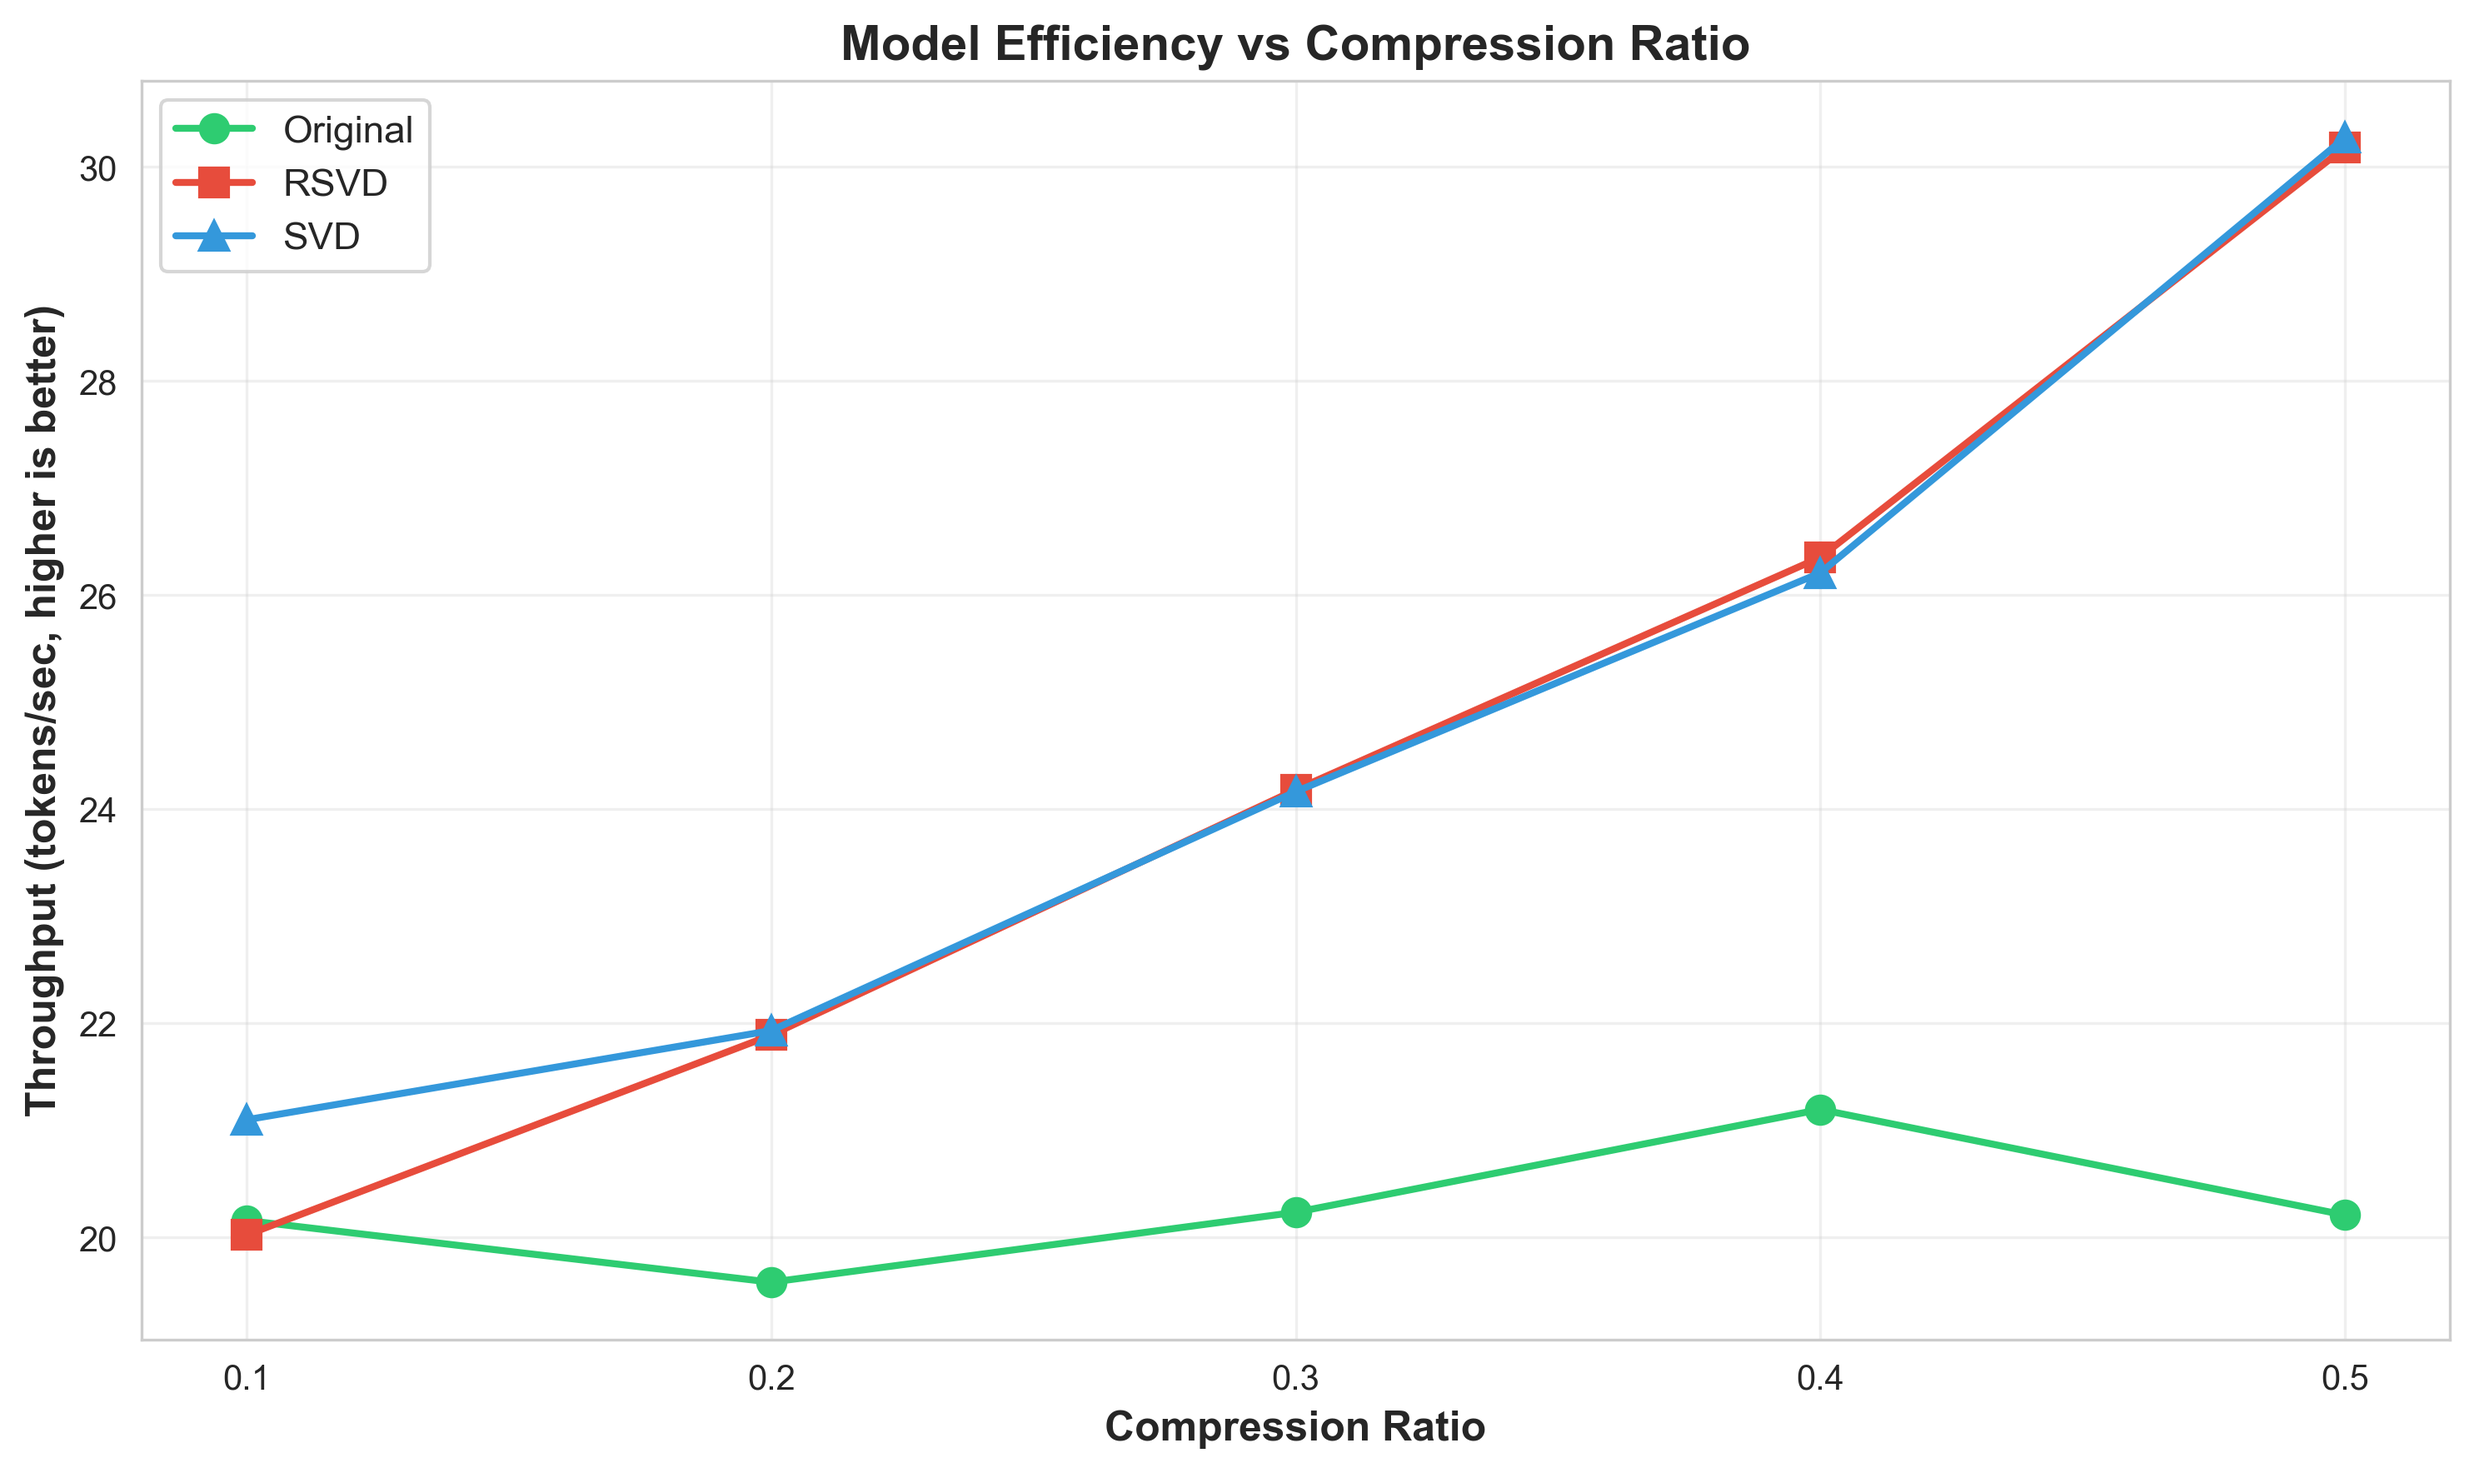
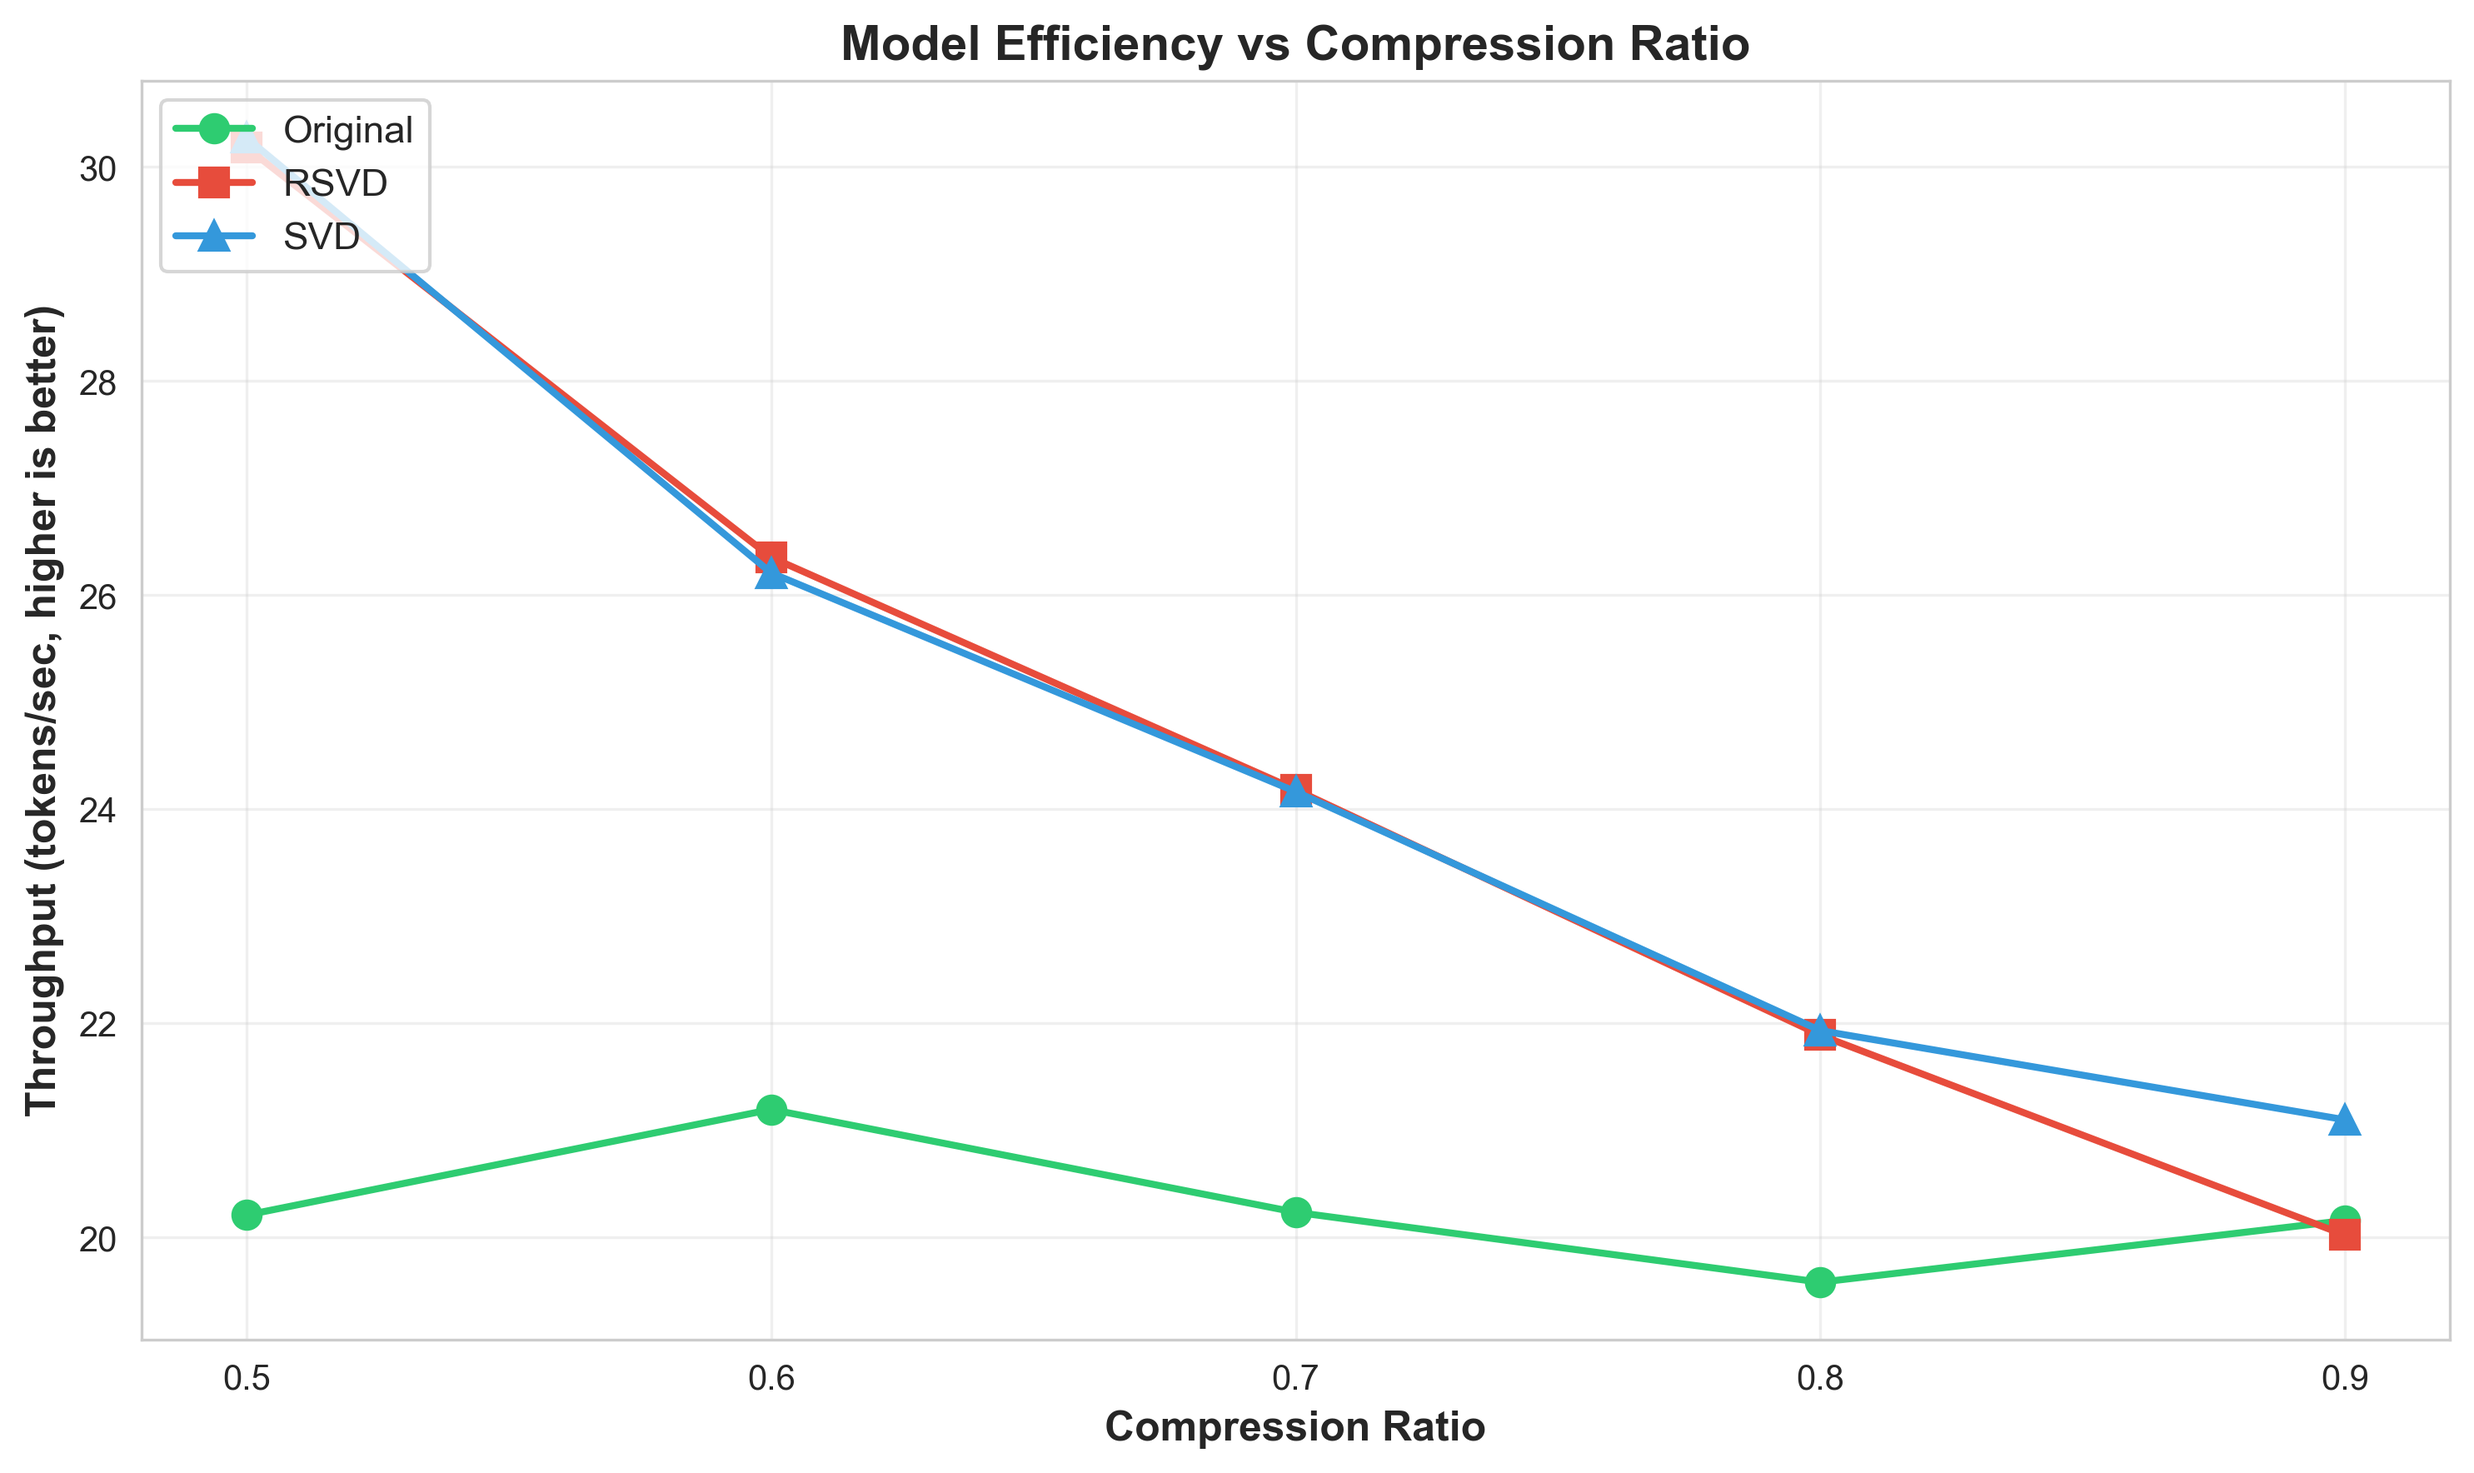
Added parameters graph

diff --git a/graphs/parameters_retained_graph.py b/graphs/parameters_retained_graph.py
@@ -1,0 +1,95 @@
+import pandas as pd
+import matplotlib.pyplot as plt
+import seaborn as sns
+import numpy as np
+import os
+
+# Set style
+sns.set_style("whitegrid")
+plt.rcParams['figure.figsize'] = (10, 6)
+
+# Define ratios to analyze
+ratios = [0.1, 0.2, 0.3, 0.4, 0.5]
+
+# Initialize data storage
+data = {
+    'ratio': [],
+    'kept_params': []
+}
+
+# Read data from compression_summary.txt files
+base_dir = '../benchmark_results_comparison'
+
+for ratio in ratios:
+    summary_file = os.path.join(base_dir, f'ratio_{ratio}', 'compression_summary.txt')
+    
+    if os.path.exists(summary_file):
+        with open(summary_file, 'r') as f:
+            content = f.read()
+            
+        # Parse kept parameters percentage
+        kept_params = None
+        
+        lines = content.split('\n')
+        
+        for line in lines:
+            if 'Compression Ratio:' in line and 'keeping' in line:
+                # Extract the decimal value (e.g., "0.9 or 90.0%")
+                parts = line.split('keeping')[1].strip().split('or')
+                if len(parts) >= 1:
+                    # Extract just the decimal number before 'or', remove % if present
+                    value_str = parts[0].strip().split()[0].replace('%', '')
+                    kept_params = float(value_str) / 100 if float(value_str) > 1 else float(value_str)
+        
+        # Only append if value was found
+        if kept_params is not None:
+            data['ratio'].append(ratio)
+            data['kept_params'].append(kept_params)
+        else:
+            print(f"Warning: Could not parse kept parameters from {summary_file}")
+    else:
+        print(f"Warning: {summary_file} not found")
+
+# Assume LLaMA-7B has approximately 7 billion parameters
+total_params = 7e9
+
+# Convert fraction to actual number of parameters
+kept_params_count = [kept * total_params for kept in data['kept_params']]
+
+# Convert ratios to 1-ratio for x-axis
+x_values = [1 - r for r in data['ratio']]
+
+# Create the plot
+plt.figure(figsize=(10, 6))
+
+# Plot line
+plt.plot(x_values, kept_params_count, marker='o', linewidth=2.5, markersize=10, 
+         color='#9b59b6', label='Compressed Model Parameters')
+
+# Add horizontal line for base model
+plt.axhline(y=total_params, color='#2ecc71', linestyle='--', linewidth=2, 
+            label='Base Model (7B parameters)')
+
+# Customize plot
+plt.xlabel('Compression Ratio', fontsize=12, fontweight='bold')
+plt.ylabel('Number of Parameters (billions)', fontsize=12, fontweight='bold')
+plt.title('Number of Parameters', fontsize=14, fontweight='bold')
+plt.legend(fontsize=11, loc='lower right')
+plt.grid(True, alpha=0.3)
+
+# Set axis limits and ticks
+plt.xticks([1 - r for r in ratios])
+plt.ylim([0, total_params * 1.05])
+# Format y-axis to show billions
+ax = plt.gca()
+ax.yaxis.set_major_formatter(plt.FuncFormatter(lambda x, p: f'{x/1e9:.1f}'))
+
+
+plt.tight_layout()
+
+# Save the plot
+output_file = 'parameters_retained_comparison.png'
+plt.savefig(output_file, dpi=300, bbox_inches='tight')
+print(f"Graph saved as {output_file}")
+
+plt.show()

diff --git a/graphs/efficiency_graph.py b/graphs/efficiency_graph.py
@@ -62,15 +62,18 @@ for ratio in ratios:
     else:
         print(f"Warning: {summary_file} not found")
 
+# Convert ratios to 1-ratio for x-axis
+x_values = [1 - r for r in data['ratio']]
+
 # Create the plot
 plt.figure(figsize=(10, 6))
 
 # Plot lines
-plt.plot(data['ratio'], data['original'], marker='o', linewidth=2, markersize=8, 
+plt.plot(x_values, data['original'], marker='o', linewidth=2, markersize=8, 
          label='Original', color='#2ecc71')
-plt.plot(data['ratio'], data['rsvd'], marker='s', linewidth=2, markersize=8, 
+plt.plot(x_values, data['rsvd'], marker='s', linewidth=2, markersize=8, 
          label='RSVD', color='#e74c3c')
-plt.plot(data['ratio'], data['svd'], marker='^', linewidth=2, markersize=8, 
+plt.plot(x_values, data['svd'], marker='^', linewidth=2, markersize=8, 
          label='SVD', color='#3498db')
 
 # Customize plot
@@ -81,7 +84,7 @@ plt.legend(fontsize=11, loc='upper left')
 plt.grid(True, alpha=0.3)
 
 # Set x-axis ticks
-plt.xticks(ratios)
+plt.xticks([1 - r for r in ratios])
 
 plt.tight_layout()
 

diff --git a/graphs/perplexity_graph.py b/graphs/perplexity_graph.py
@@ -62,15 +62,18 @@ for ratio in ratios:
     else:
         print(f"Warning: {summary_file} not found")
 
+# Convert ratios to 1-ratio for x-axis
+x_values = [1 - r for r in data['ratio']]
+
 # Create the plot
 plt.figure(figsize=(10, 6))
 
 # Plot lines
-plt.plot(data['ratio'], data['original'], marker='o', linewidth=2, markersize=8, 
+plt.plot(x_values, data['original'], marker='o', linewidth=2, markersize=8, 
          label='Original', color='#2ecc71')
-plt.plot(data['ratio'], data['rsvd'], marker='s', linewidth=2, markersize=8, 
+plt.plot(x_values, data['rsvd'], marker='s', linewidth=2, markersize=8, 
          label='RSVD', color='#e74c3c')
-plt.plot(data['ratio'], data['svd'], marker='^', linewidth=2, markersize=8, 
+plt.plot(x_values, data['svd'], marker='^', linewidth=2, markersize=8, 
          label='SVD', color='#3498db')
 
 # Customize plot
@@ -81,7 +84,7 @@ plt.legend(fontsize=11, loc='upper left')
 plt.grid(True, alpha=0.3)
 
 # Set x-axis ticks
-plt.xticks(ratios)
+plt.xticks([1 - r for r in ratios])
 
 plt.tight_layout()
 

diff --git a/graphs/compression_speedup_graph.py b/graphs/compression_speedup_graph.py
@@ -65,7 +65,7 @@ ax.set_xlabel('Compression Ratio', fontsize=12, fontweight='bold')
 ax.set_ylabel('Compression Time (seconds)', fontsize=12, fontweight='bold')
 ax.set_title('Compression Time Comparison: RSVD vs SVD', fontsize=14, fontweight='bold')
 ax.set_xticks(x)
-ax.set_xticklabels(data['ratio'])
+ax.set_xticklabels([1 - r for r in data['ratio']])
 ax.legend(fontsize=11)
 ax.grid(True, alpha=0.3, axis='y')
 
